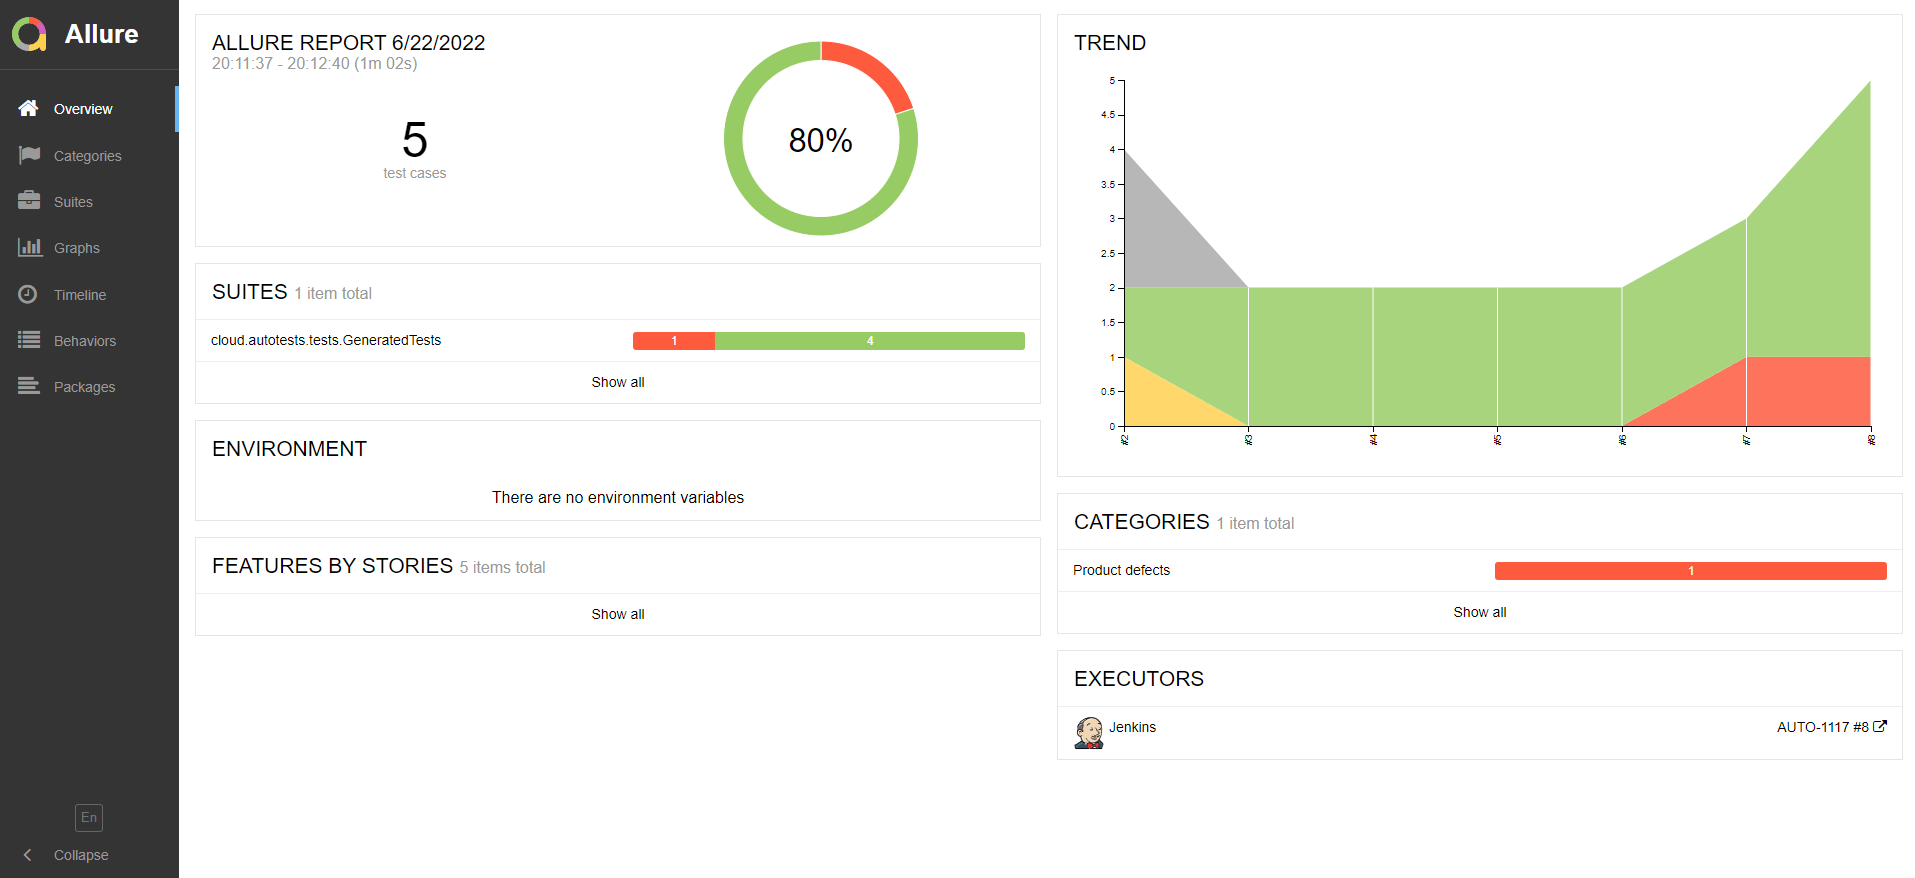
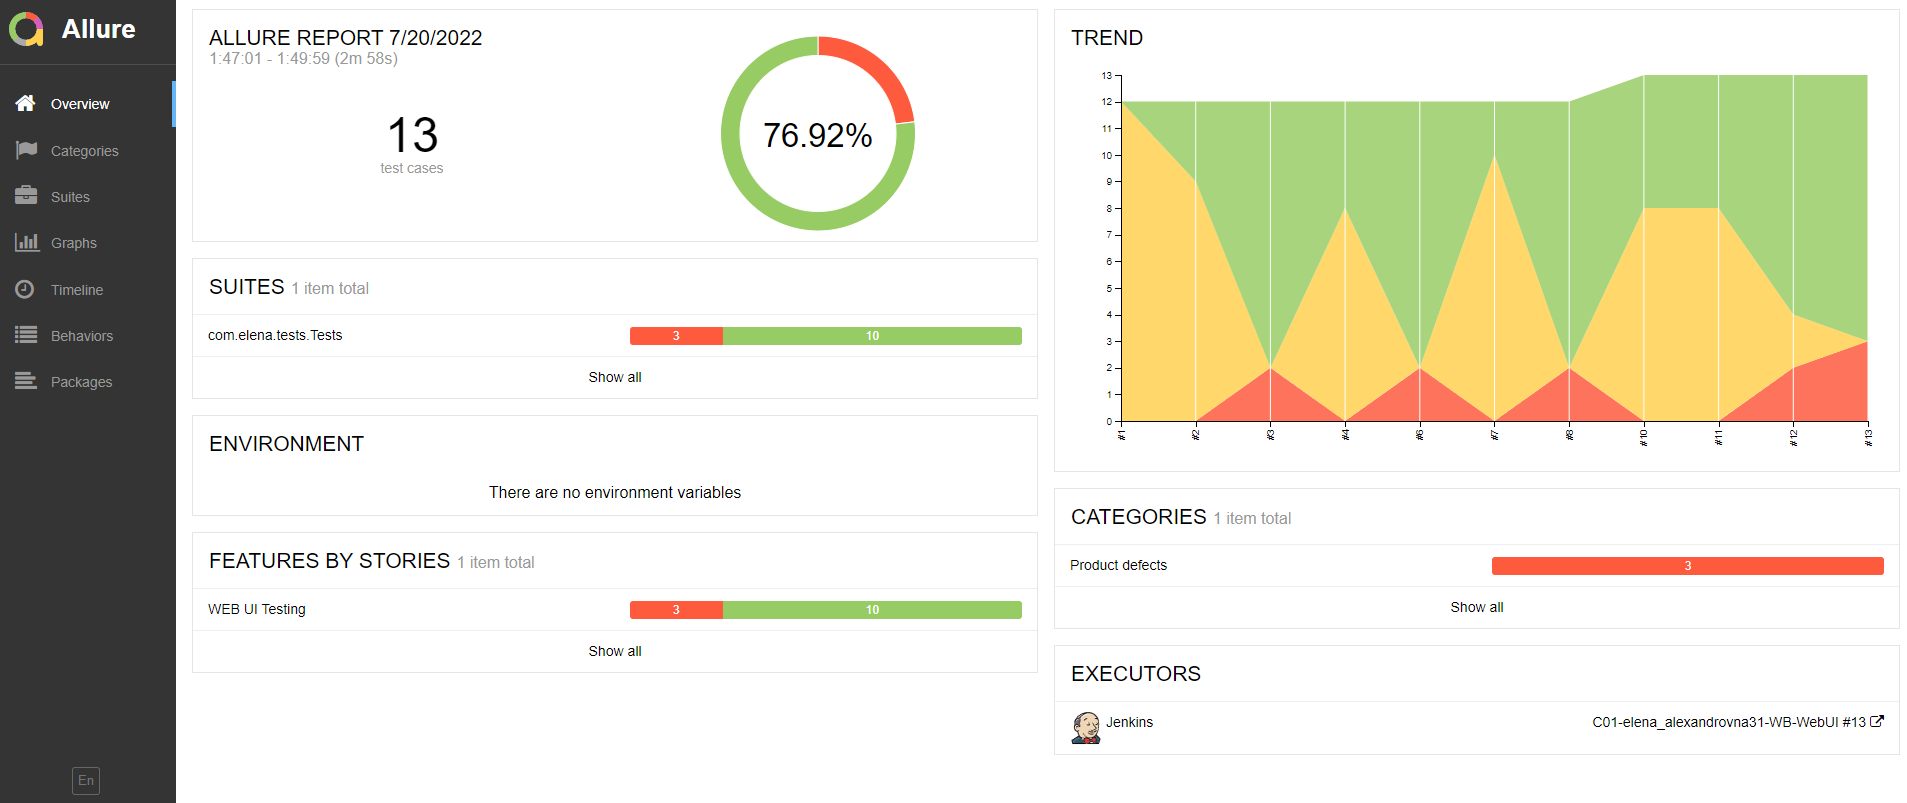
README.md updated - screenshots updated, typos fixed, also  allureid fixed

diff --git a/src/test/java/com/elena/tests/Tests.java b/src/test/java/com/elena/tests/Tests.java
@@ -114,7 +114,6 @@ public class Tests extends TestBase {
                 Arguments.of("Беларусь","https://by.wildberries.ru/"),
                 Arguments.of("Израиль","https://wildberries.co.il/"),
                 Arguments.of("Казахстан","https://kz.wildberries.ru/"),
-                Arguments.of("Беларусь","https://by.wildberries.ru/"),
                 Arguments.of("Киргизия","https://kg.wildberries.ru/"),
                 Arguments.of("Узбекистан","https://uz.wildberries.ru/")
         );

diff --git a/src/test/java/com/elena/pages/AuthPage.java b/src/test/java/com/elena/pages/AuthPage.java
@@ -8,7 +8,7 @@ import static com.codeborne.selenide.Selenide.$;
 public class AuthPage {
     // locators
     private final SelenideElement  requestCode = $("#requestCode"),
-                            errorText =$(".field-validation-error") ;
+                                   errorText =$(".field-validation-error") ;
 
     public void clickRequestCode() {
         requestCode.pressEnter();}

diff --git a/README.md b/README.md
@@ -7,6 +7,7 @@
 - <a href="#robot-сборки-в-Jenkins">Сборки в Jenkins</a>
 - <a href="#keyboard-запуск-из-терминала">Запуск из терминала</a>
 - <a href="#bar_chart-allure-отчет">Allure отчет</a>
+- <a href="#pushpin-Тест-кейсы-в-Allure-Test-Ops-отчете">Allure TestOps отчет</a>
 - <a href="#robot-отчет-в-telegram">Отчет в Telegram</a>
 - <a href="#film_projector-видео-пример-прохождения-тестов">Видео пример прохождения тестов</a>
 
@@ -27,18 +28,19 @@
 ## :clipboard: Реализованные проверки
 - Проверка ошибок в консоли :heavy_check_mark:
 - Проверка функциональности поиска :heavy_check_mark:
+- Проверка попытки логина без ввода номера телефона :heavy_check_mark:
 - Проверка доступности кнопок хедера на странице :heavy_check_mark:
 - Проверка доступности чат бота :heavy_check_mark:
 - Проверка открытия нового окна :heavy_check_mark:
 - Параметризованный тест на смену геолокации :heavy_check_mark:
 
 ## :robot: Сборки в Jenkins
-### <a target="_blank" href="https://jenkins.autotests.cloud/job/AUTO-1117/">Параметризированная сборка в Jenkins со всеми тестами</a>
+### <a target="_blank" href="https://jenkins.autotests.cloud/job/C01-elena_alexandrovna31-WB-WebUI/">Параметризированная сборка в Jenkins со всеми тестами</a>
 <p align="center">
 <img title="Jenkins Job Run with parameters" src="images/screenshots/jenkins1.png">
 </p>
 
-###  Главная страница сборки <a target="_blank" href="https://jenkins.autotests.cloud/job/AUTO-1117/">Jenkins</a>
+###  Главная страница сборки <a target="_blank" href="https://jenkins.autotests.cloud/job/C01-elena_alexandrovna31-WB-WebUI/">Jenkins</a>
 <p align="center">
 <img title="Jenkins Job Run with parameters" src="images/screenshots/jenkins0.png">
 </p>
@@ -76,7 +78,7 @@ test
 > 
 > <code>THREADS</code> – количество потоков.
 
-## <img width="4%" title="Allure Report" src="images/logo/Allure_Report.svg"> Отчет о результатах тестирования в [Allure Report](https://jenkins.autotests.cloud/job/AUTO-1117/6/allure/)
+## <img width="4%" title="Allure Report" src="images/logo/Allure_Report.svg"> Отчет о результатах тестирования в [Allure Report](https://jenkins.autotests.cloud/job/C01-elena_alexandrovna31-WB-WebUI/13/allure/)
 
 ### :pushpin: Главная страница Allure-отчета
 
@@ -96,6 +98,20 @@ test
 <img title="Allure Overview Dashboard" src="images/screenshots/allure-stata.png">
 </p>
 
+## <img width="4%" title="Allure TestOps Report" src="images/logo/Allure_TestOps.svg"> Отчет о результатах тестирования в [Allure Report](https://jenkins.autotests.cloud/job/C01-elena_alexandrovna31-WB-WebUI/13/allure/)
+
+### :pushpin: Тест кейсы в Allure Test Ops отчете 
+
+<p align="center">
+<img title="Allure Overview Dashboard" src="images/screenshots/allure-testops-testcases.png">
+</p>
+
+### :pushpin: Статистика в Allure Test Ops 
+
+<p align="center">
+<img title="Allure Overview Dashboard" src="images/screenshots/allure-testops-stata.png">
+</p>
+
 
 ## <img width="4%" title="Telegram" src="images/logo/Telegram.svg"> Уведомления в Telegram с использованием бота
 
@@ -104,7 +120,7 @@ test
 <img title="Telegram Notifications" src="images/screenshots/telegram-report.png">
 </p>
 
-## <img width="4%" title="Telegram" src="images/logo/Selenoid.svg"> Пример запуска теста в Selenoid
+## <img width="4%" title="Selenoid" src="images/logo/Selenoid.svg"> Пример запуска теста в Selenoid
 
 К каждому тесту в отчете прилагается видео. Одно из таких видео представлено ниже.
 <p align="center">
